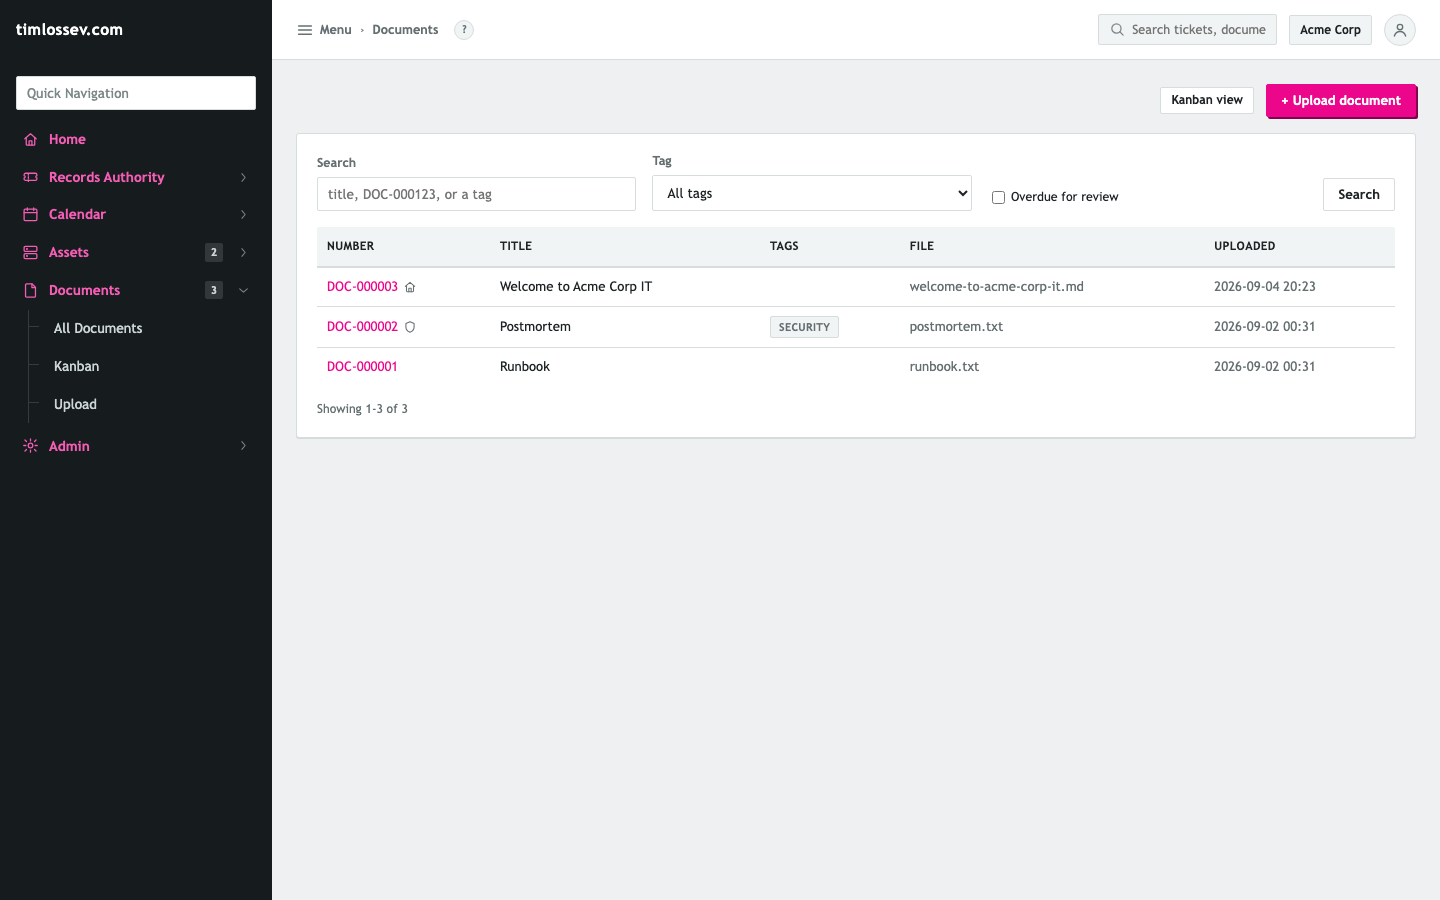
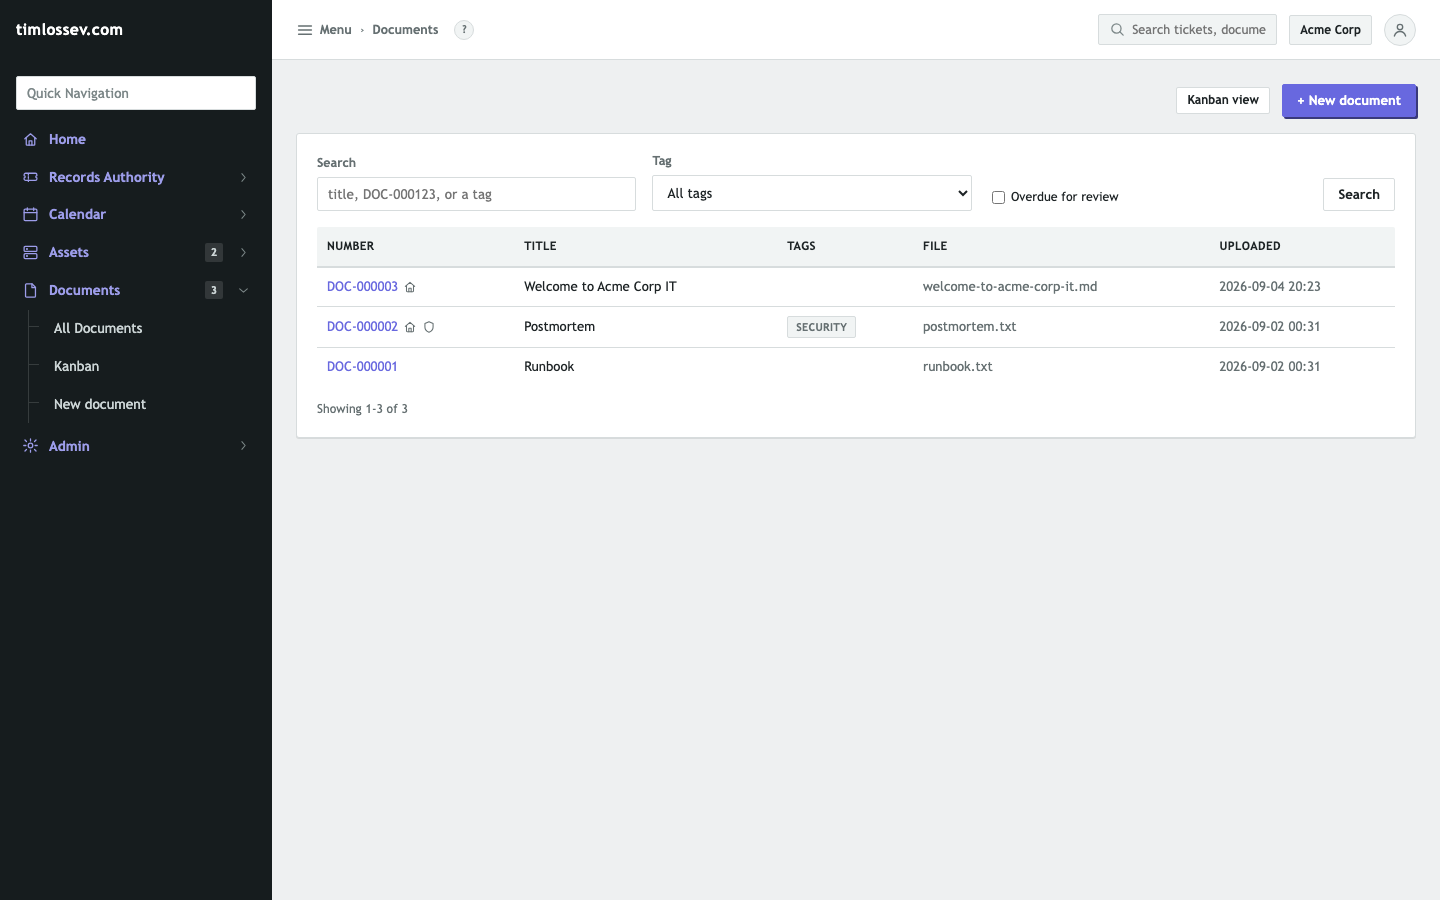
Redesign the New Document screen; rename "Upload" to "New document"
Upload-vs-type is now two large clickable cards up front instead of
small tabs sitting below Title/Description/Tags -- the "type new
content" path used to be a single textarea reached only after three
unrelated fields first. A two-column layout puts the chosen panel
(file input, or format-select-plus-textarea) beside those fields
instead of above/below them, and the form itself drops its 640px cap
to take the full content width, matching the document detail page.

The sidebar's "Upload" submenu entry and the list page's button are
renamed "New document" to reflect that typing content has been an
equally first-class path since the jq-ruleset feature added it.

diff --git a/backend/src/rain/web/templates/documents/form.html b/backend/src/rain/web/templates/documents/form.html
@@ -1,56 +1,71 @@
 {% extends "base.html" %}
-{% block title %}Upload Document - {{ branding.instance_name }}{% endblock %}
-{% block help_text %}Add a new document into the repository - upload a file, or type its contents directly to create a text/Markdown placeholder on the spot. txt/md files get an inline editor and Markdown preview afterward.{% endblock %}
+{% block title %}New Document - {{ branding.instance_name }}{% endblock %}
+{% block help_text %}Add a new document into the repository - upload a file, or type its contents directly to create a text/Markdown/jq placeholder on the spot. txt/md files get an inline editor and Markdown preview afterward.{% endblock %}
 {% block content %}
 {% if linked_type and linked_id %}
 <p class="muted">This will be attached to the {{ linked_type }} #{{ linked_id }} automatically.</p>
 {% endif %}
 {% if error %}<div class="flash flash-error">{{ error }}</div>{% endif %}
 
-<div class="card" style="max-width:640px;" data-tabs>
+<div class="card" data-tabs>
   <form method="post" action="/documents" enctype="multipart/form-data">
     {% if linked_type %}<input type="hidden" name="linked_type" value="{{ linked_type }}">{% endif %}
     {% if linked_id %}<input type="hidden" name="linked_id" value="{{ linked_id }}">{% endif %}
-    <div class="field">
-      <label for="title">Title</label>
-      <input type="text" id="title" name="title" required autofocus>
-    </div>
-    <div class="field">
-      <label for="description">Description</label>
-      <textarea id="description" name="description" rows="3"></textarea>
-    </div>
-    <div class="field">
-      <label for="tags">Tags (optional)</label>
-      <input type="text" id="tags" name="tags" placeholder="runbook, security, onboarding">
-      <div class="field-hint">Comma-separated. Searchable alongside title and description in global search.</div>
+
+    <div class="doc-source-picker">
+      <button type="button" class="doc-source-card active" data-tab-btn="upload">
+        <span class="doc-source-card-icon">{{ nav_icon("file") }}</span>
+        <span class="doc-source-card-title">Upload a file</span>
+        <p class="doc-source-card-desc">Attach an existing file from your computer, up to 25MB.</p>
+      </button>
+      <button type="button" class="doc-source-card" data-tab-btn="type">
+        <span class="doc-source-card-icon">{{ nav_icon("pencil") }}</span>
+        <span class="doc-source-card-title">Type new content</span>
+        <p class="doc-source-card-desc">Create a plain text, Markdown, or jq file directly - nothing to upload yet.</p>
+      </button>
     </div>
 
-    <div class="tab-buttons">
-      <button type="button" class="tab-btn active" data-tab-btn="upload">Upload a file</button>
-      <button type="button" class="tab-btn" data-tab-btn="type">Type new content</button>
-    </div>
+    <div class="doc-new-grid">
+      <div>
+        <div class="tab-panel active" data-tab-panel="upload">
+          <div class="field">
+            <label for="file">File</label>
+            <input type="file" id="file" name="file">
+            <div class="field-hint">Up to 25MB.</div>
+          </div>
+        </div>
 
-    <div class="tab-panel active" data-tab-panel="upload">
-      <div class="field">
-        <label for="file">File</label>
-        <input type="file" id="file" name="file">
-        <div class="field-hint">Up to 25MB.</div>
+        <div class="tab-panel" data-tab-panel="type">
+          <div class="field">
+            <label for="body_format">Save as</label>
+            <select id="body_format" name="body_format">
+              <option value="txt">Plain text (.txt)</option>
+              <option value="md">Markdown (.md)</option>
+              <option value="jq">jq export transform (.jq)</option>
+            </select>
+          </div>
+          <div class="field">
+            <label for="body">Contents</label>
+            <textarea id="body" name="body" rows="16" class="doc-body-editor" placeholder="Type the document's contents..."></textarea>
+            <div class="field-hint">Saved as a new file named after the title. Edit it further, or point it at a webhook for auto-update, from the document's own page afterward.</div>
+          </div>
+        </div>
       </div>
-    </div>
 
-    <div class="tab-panel" data-tab-panel="type">
-      <div class="field">
-        <label for="body_format">Save as</label>
-        <select id="body_format" name="body_format">
-          <option value="txt">Plain text (.txt)</option>
-          <option value="md">Markdown (.md)</option>
-          <option value="jq">jq export transform (.jq)</option>
-        </select>
-      </div>
-      <div class="field">
-        <label for="body">Contents</label>
-        <textarea id="body" name="body" rows="10" placeholder="Type the document's contents..."></textarea>
-        <div class="field-hint">Saved as a new file named after the title above. Edit it further, or point it at a webhook for auto-update, from the document's own page afterward.</div>
+      <div>
+        <div class="field">
+          <label for="title">Title</label>
+          <input type="text" id="title" name="title" required autofocus>
+        </div>
+        <div class="field">
+          <label for="description">Description</label>
+          <textarea id="description" name="description" rows="3"></textarea>
+        </div>
+        <div class="field">
+          <label for="tags">Tags (optional)</label>
+          <input type="text" id="tags" name="tags" placeholder="runbook, security, onboarding">
+          <div class="field-hint">Comma-separated. Searchable alongside title and description in global search.</div>
+        </div>
       </div>
     </div>
 

diff --git a/backend/src/rain/web/static/css/app.css b/backend/src/rain/web/static/css/app.css
@@ -975,6 +975,49 @@ table.calendar-grid th { text-align: center; padding: 6px; font-size: 0.72rem; c
 .doc-md-preview h1, .doc-md-preview h2, .doc-md-preview h3 { margin: 0.6em 0 0.3em; }
 .doc-md-preview p { margin: 0 0 0.8em; }
 
+/* ---------- New Document form (documents/form.html) ----------
+   Upload-vs-type is the first decision this screen asks for, so it
+   gets the same "obvious clickable card, not a small tab" treatment
+   Platform Response Rule's own action-type picker uses
+   (.action-icon-btn/.action-node.active) rather than the plain
+   .tab-buttons row this used to be -- data-tab-btn/data-tab-panel
+   still drive it (app.js's tab JS matches on those attributes
+   generically, not on any particular button styling), so no JS
+   changes were needed to swap the look. */
+.doc-source-picker { display: flex; gap: 12px; margin-bottom: 20px; flex-wrap: wrap; }
+.doc-source-card {
+  display: flex;
+  flex-direction: column;
+  align-items: flex-start;
+  gap: 6px;
+  flex: 1 1 260px;
+  max-width: 360px;
+  padding: 16px 18px;
+  border-radius: var(--radius);
+  border: 1px solid var(--border);
+  background: var(--surface);
+  cursor: pointer;
+  text-align: left;
+  color: var(--text);
+}
+.doc-source-card:hover { border-color: var(--accent); }
+.doc-source-card.active { border-color: var(--accent); background: color-mix(in srgb, var(--accent) 10%, white); }
+.doc-source-card-icon svg { width: 22px; height: 22px; color: var(--accent); }
+.doc-source-card-title { font-weight: 700; }
+.doc-source-card-desc { margin: 0; color: var(--text-muted); font-size: 0.85rem; }
+/* The content-entry panel (file picker or the type-it-yourself
+   textarea) sits beside the Title/Description/Tags fields rather than
+   above or below them -- on the old single-column layout, reaching the
+   "type new content" textarea meant scrolling past those three fields
+   first even though it's the entire point of picking that option.
+   Right column is a fixed-ish width since metadata fields don't need
+   room to grow; the left column (and its textarea) takes whatever's
+   left, which is a lot now that the form isn't capped at 640px. */
+.doc-new-grid { display: grid; grid-template-columns: minmax(0, 1fr) minmax(0, 360px); gap: 28px; align-items: start; }
+@media (max-width: 860px) {
+  .doc-new-grid { grid-template-columns: 1fr; }
+}
+
 /* Auto-update tab's "Refresh from webhook" action -- a border-top
    separates it from the settings form above (was previously a bare
    <button> immediately followed by a <span>, glued together with a

diff --git a/backend/src/rain/web/templates/documents/list.html b/backend/src/rain/web/templates/documents/list.html
@@ -1,11 +1,11 @@
 {% extends "base.html" %}
 {% import "_pagination.html" as pg with context %}
 {% block title %}Documents - {{ branding.instance_name }}{% endblock %}
-{% block help_text %}The document repository. Upload files, edit txt/md documents in-line, link documents to tickets or assets, tag them, and search by title, document number, or tag. A document's number carries a small icon for each of: shown on the Home page, populated from a webhook, linked to a calendar entry, shareable in the client portal, and overdue for review.{% endblock %}
+{% block help_text %}The document repository. Upload files or type new ones directly, edit txt/md documents in-line, link documents to tickets or assets, tag them, and search by title, document number, or tag. A document's number carries a small icon for each of: shown on the Home page, populated from a webhook, linked to a calendar entry, shareable in the client portal, and overdue for review.{% endblock %}
 {% block content %}
 <div class="panel-row" style="justify-content:flex-end;">
   <a class="btn btn-sm" href="/documents/kanban">Kanban view</a>
-  <a class="btn btn-primary" href="/documents/new">+ Upload document</a>
+  <a class="btn btn-primary" href="/documents/new">+ New document</a>
 </div>
 
 <div class="card">
@@ -55,7 +55,7 @@
         <td class="muted">{{ doc.created_at.strftime("%Y-%m-%d %H:%M") if doc.created_at else "-" }}</td>
       </tr>
       {% else %}
-      <tr><td colspan="5" class="muted">{% if selected_tag or search or overdue_only %}No documents match.{% else %}No documents yet. <a href="/documents/new">Upload the first one</a>.{% endif %}</td></tr>
+      <tr><td colspan="5" class="muted">{% if selected_tag or search or overdue_only %}No documents match.{% else %}No documents yet. <a href="/documents/new">Create the first one</a>.{% endif %}</td></tr>
       {% endfor %}
     </tbody>
   </table>

diff --git a/backend/src/rain/modules/documents/nav.py b/backend/src/rain/modules/documents/nav.py
@@ -26,7 +26,7 @@ nav_registry.register(
         children=[
             NavNode(key="documents-all", label="All Documents", href="/documents", order=1),
             NavNode(key="documents-kanban", label="Kanban", href="/documents/kanban", order=2),
-            NavNode(key="documents-upload", label="Upload", href="/documents/new", order=3),
+            NavNode(key="documents-upload", label="New document", href="/documents/new", order=3),
         ],
     )
 )

diff --git a/docs/architecture.md b/docs/architecture.md
@@ -891,6 +891,29 @@ form -- one POST creates the `Document` and the `DocumentLink` together.
 Documents can also be linked to additional assets/tickets later from the
 document's own detail page.
 
+**New Document screen layout.** Upload-vs-type used to be a plain
+`.tab-buttons` pair sitting below Title/Description/Tags, on a
+640px-capped `.card` like most of this app's forms -- functional, but
+the "type new content" path (the whole point of picking that tab) was
+a single `<textarea>` reached only after three unrelated fields, and
+the choice itself was two small text links easy to skim past. Replaced
+with `.doc-source-card`s (the same bigger "obvious clickable option"
+treatment `.action-icon-btn` gives Platform Response Rule's own action
+picker) up front, and a `.doc-new-grid` two-column layout below them --
+the chosen panel (file input or the format-select-plus-textarea) on
+the wider left column, Title/Description/Tags on a narrower fixed-ish
+right column, so typing content and naming the document happen side
+by side instead of one after the other. The card itself dropped its
+`max-width:640px` to take the full content width, matching the
+document detail page's own uncapped `.card`. None of this touched
+`data-tab-btn`/`data-tab-panel` semantics -- `app.js`'s tab JS matches
+on those attributes regardless of the button's own styling, so the
+visual swap needed no script changes. The sidebar's "Upload" submenu
+entry and the list page's "+ Upload document" button were renamed to
+"New document" at the same time, since "Upload" undersold what the
+screen has done since the jq-ruleset feature added a second creation
+path.
+
 **Change alerting.** `Document.alert_on_change`, when set, raises a
 synthetic `SyslogEvent` (host `documents`, program the doc number) whenever
 the stored content actually changes -- from a webhook refresh

diff --git a/docs/user-guide.md b/docs/user-guide.md
@@ -518,12 +518,12 @@ see that section for what it does.
 
 ## Documents
 
-Submenu: All Documents, Upload.
+Submenu: All Documents, Kanban, New document.
 
 ### Document list
 
 A table (Number, Title, Tags, File, Uploaded) with a search box
-(title/number/tag) and "+ Upload document".
+(title/number/tag) and "+ New document".
 
 A document's number carries flag icons:
 
@@ -564,15 +564,17 @@ reverts with an error banner if it didn't go through.
 
 ### New document
 
-Labeled "Upload document" but offers two tabs:
+Two large cards at the top pick the source -- click one to switch
+which panel shows underneath, next to Title/Description/Tags rather
+than below them:
 
 - Upload a file: up to 25MB.
 - Type new content: `.txt`, `.md`, or `.jq` (a saved export transform
   ruleset -- see Export above), typed directly -- for a placeholder
   document with nothing to upload yet.
 
-Title (required), Description, Tags (comma-separated) apply to either
-tab. Arriving from another record's "link a document" action attaches
+Title (required), Description, Tags (comma-separated) apply either
+way. Arriving from another record's "link a document" action attaches
 the new document automatically.
 
 ### Document detail

diff --git a/docs/screenshots/README.md b/docs/screenshots/README.md
@@ -22,7 +22,7 @@ nothing here is mocked up.
 | | |
 |---|---|
 | ![Asset list](07-asset-list.png) The asset registry, with no-code custom fields per type. | ![Document list](08-document-list.png) The document repository, with tags and status flags. |
-| ![Document detail](09-document-detail.png) A document's own page -- properties, contents, links, calendar. | ![Calendar](10-calendar.png) The per-tenant calendar, with recurring entries and a syslog bridge. |
+| ![Document detail](09-document-detail.png) A document's own page -- Basics, Ownership, Acknowledgment, and Visibility as their own tabs, plus contents, links, and calendar. | ![Calendar](10-calendar.png) The per-tenant calendar, with recurring entries and a syslog bridge. |
 
 ## Search, portal, admin
 
